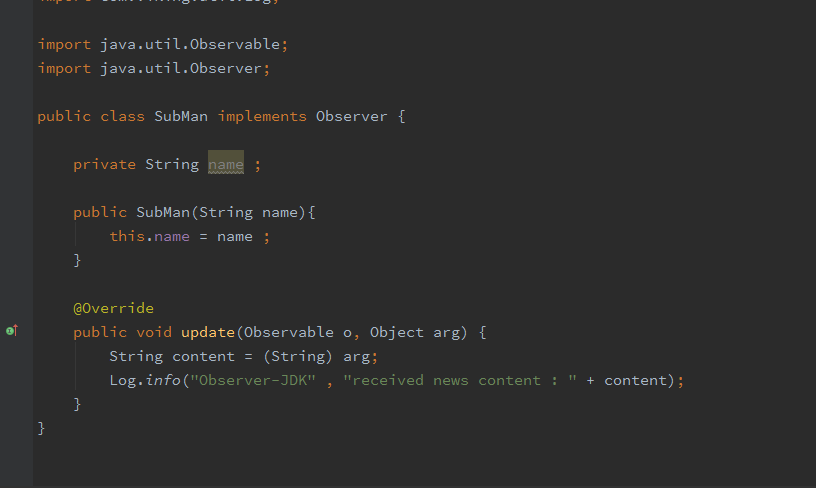
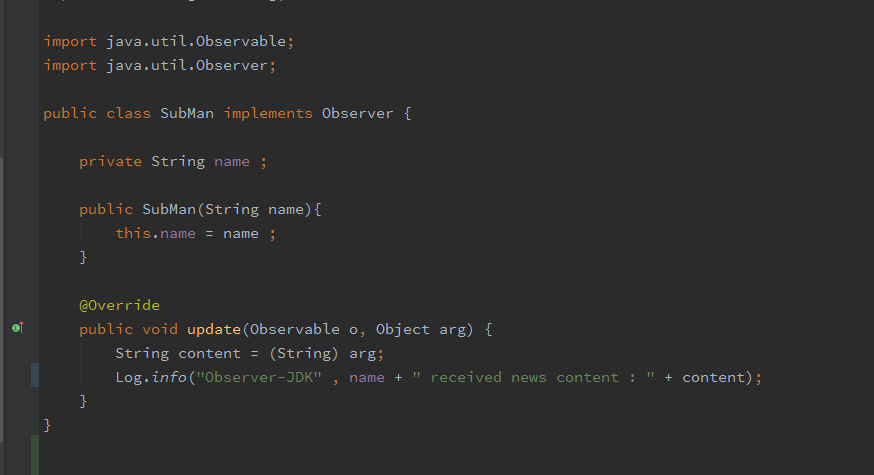
添加观察者模式在JDK的自带实现图片资源更新

diff --git a/src/com/viking/observer/jdk/SubMan.java b/src/com/viking/observer/jdk/SubMan.java
@@ -16,8 +16,11 @@ public class SubMan implements Observer {
     @Override
     public void update(Observable o, Object arg) {
         String content = (String) arg;
-        Log.info("Observer-JDK" , "received news content : " + content);
+        Log.info("Observer-JDK" , name + " received news content : " + content);
     }
 }
+
+
+
 
 
